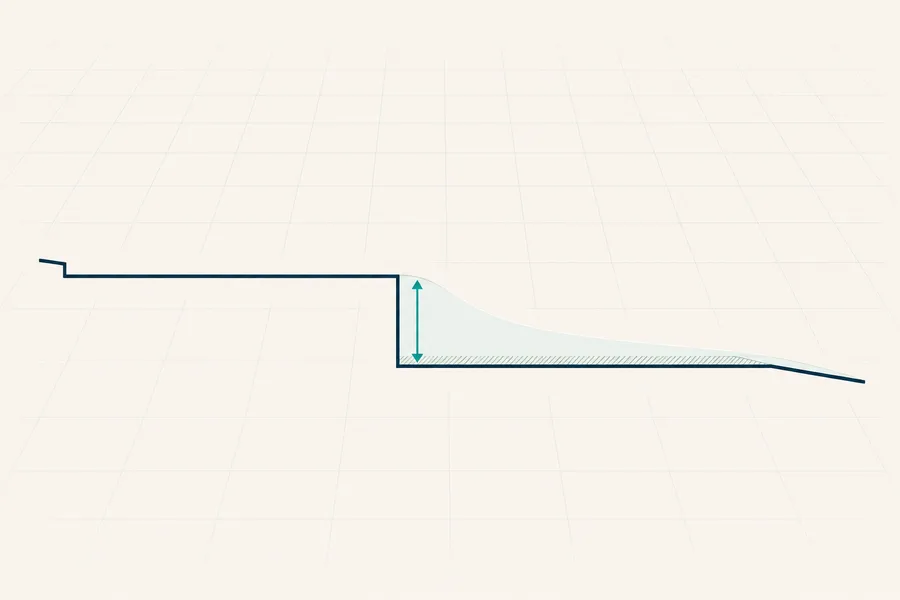
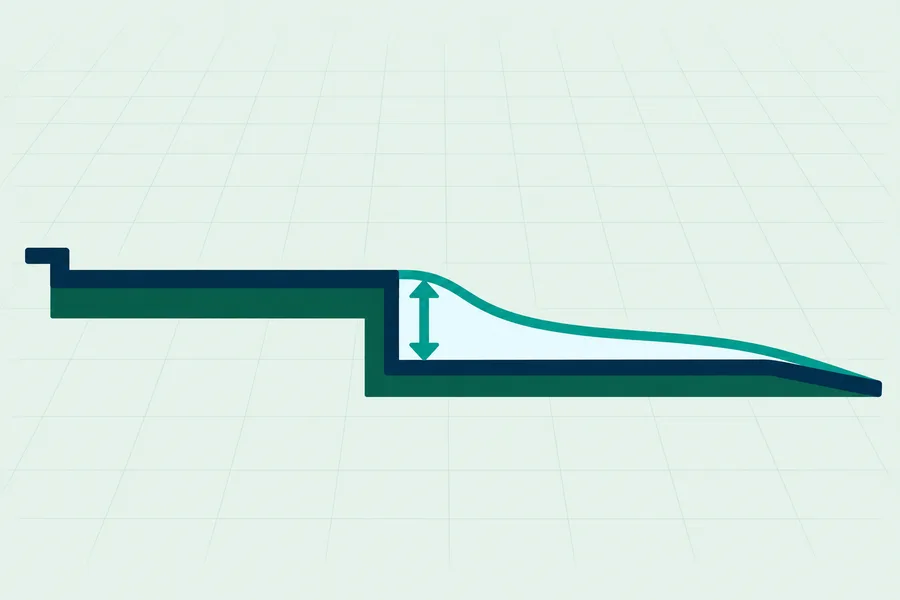
Align tool-card badges and add artwork with workspace controls

diff --git a/app/page.tsx b/app/page.tsx
@@ -20,12 +20,6 @@ const workflowHighlights = [
   { title: "Traceable", detail: "Inputs, checks and references", icon: ListChecks },
 ];
 
-const toolArtwork = {
-  snow_load: { src: "/homepage/snow-load.webp", alt: "Stepped roof cross-section with a snowdrift and a depth arrow" },
-  w_section: { src: "/homepage/w-section.webp", alt: "Stylized wide-flange steel member in the model view" },
-  "3d_model": { src: "/homepage/3d-model.webp", alt: "Close-up of beam-column connections in a structural frame" },
-} as const;
-
 const products = [
   { title: "Engineering tools", description: "Explore tools for roof snow loads, steel member checks and early-stage structural modeling.", icon: Wrench, href: "#tools", action: "Explore tools" },
   { title: "Drawing intelligence", description: "Identify grids, members and relationships in structural drawings.", icon: FileSearch, href: "#roadmap", action: "View roadmap", upcoming: true },
@@ -62,26 +56,26 @@ export default function Home() {
           </header>
           <div className="homeGrid">
             {PUBLIC_TOOLS.map((tool) => {
-              const artwork = toolArtwork[tool.key as keyof typeof toolArtwork];
+              const artwork = tool.artwork;
               const linkLabel = tool.key === "3d_model" ? "Preview 3D Model" : `Preview ${tool.name}`;
               return (
                 <article className="homeCard homeToolCard" key={tool.key}>
-                  <Image
-                    className="homeToolArtwork"
-                    src={artwork.src}
-                    alt={artwork.alt}
-                    width={900}
-                    height={600}
-                    sizes="(max-width: 680px) 90vw, 29vw"
-                    unoptimized
-                  />
+                  <div className="homeToolMedia">
+                    <Image
+                      className="homeToolArtwork"
+                      src={artwork.src}
+                      alt={artwork.alt}
+                      width={900}
+                      height={600}
+                      sizes="(max-width: 680px) 90vw, 29vw"
+                      unoptimized
+                    />
+                    <span className={`homeBadge ${tool.trialDays ? "homeTrial" : "homeBeta"}`}>
+                      {tool.trialDays ? `${tool.trialDays}-day Trial` : "Beta"}
+                    </span>
+                  </div>
                   <div className="homeToolDetails">
-                    <div className="homeCardTop">
-                      <h3>{tool.name}</h3>
-                      <span className={`homeBadge ${tool.trialDays ? "homeTrial" : "homeBeta"}`}>
-                        {tool.trialDays ? `${tool.trialDays}-day Trial` : "Beta"}
-                      </span>
-                    </div>
+                    <h3>{tool.name}</h3>
                     <p>{tool.description}</p>
                     <div className="homeSample">
                       {tool.preview ? (

diff --git a/app/homepage.css b/app/homepage.css
@@ -50,10 +50,11 @@ linkoteq-header[home-design] {
 .homepage h2 { font-size: clamp(1.875rem, 3.4vw, 2.5rem); }
 .homepage h3 { font-size: clamp(1.3rem, 2vw, 1.5rem); }
 .homepage p { max-width: 65ch; margin: 0; }
-.homepage section[id], .homeModel { scroll-margin-top: 88px; }
+.homepage section[id], .homeModel { scroll-margin-top: 112px; }
 
 .homeContainer { width: min(100% - 2 * clamp(20px, 5vw, 72px), 1280px); margin-inline: auto; }
 .homeHero, .homeSection { padding-block: clamp(56px, 7vw, 104px); }
+.homeHero { padding-top: clamp(64px, 7vw, 104px); }
 .homeHeroLayout {
   display: grid;
   grid-template-columns: minmax(0, .9fr) minmax(0, 1.1fr);
@@ -86,7 +87,7 @@ linkoteq-header[home-design] {
   padding: 13px 18px 6px;
 }
 .homeModelCard figcaption strong { display: block; color: var(--home-heading); }
-.homeModelCard figcaption div > span { display: block; color: var(--home-muted); font-size: .9375rem; }
+.homeModelCard figcaption div > span { display: block; color: var(--home-body); font-size: 1rem; }
 .homeModelCard figcaption > a { grid-column: 1 / -1; }
 .homeBadge { display: inline-flex; align-items: center; padding: 3px 10px; border-radius: 999px; font-size: .9375rem; font-weight: 700; line-height: 1.45; white-space: nowrap; }
 .homeBeta { background: var(--home-beta-bg); color: var(--home-action); }
@@ -111,9 +112,10 @@ linkoteq-header[home-design] {
 .homeCardTop { display: flex; min-height: 32px; align-items: center; justify-content: space-between; flex-wrap: wrap; gap: 8px; }
 .homeCard > a { margin-top: auto; }
 .homeToolCard { padding: 0; overflow: hidden; gap: 0; }
+.homeToolMedia { position: relative; }
+.homeToolMedia > .homeBadge { position: absolute; top: 12px; right: 12px; box-shadow: 0 1px 4px rgb(20 53 46 / 14%); }
 .homeToolArtwork { display: block; width: 100%; height: auto; aspect-ratio: 3 / 2; }
 .homeToolDetails { display: flex; flex: 1; flex-direction: column; gap: 12px; padding: clamp(18px, 2.3vw, 28px); }
-.homeToolDetails .homeCardTop { align-items: flex-start; }
 .homeToolDetails .homeTextLink { white-space: nowrap; }
 .homeSample { display: grid; align-content: center; min-height: 96px; margin-top: auto; padding: 9px 12px; border-inline-start: 3px solid var(--home-teal); background: var(--home-paper); }
 .homeSample span { display: block; color: var(--home-body); font-size: 1rem; font-weight: 600; }
@@ -138,6 +140,9 @@ linkoteq-header[home-design] {
   .homeHeroLayout, .homeSplit { grid-template-columns: minmax(0, 1fr); }
   .homeModel { width: 100%; justify-self: stretch; }
   .homeContact .homeButton { justify-self: start; }
+}
+@media (681px <= width <= 1024px) {
+  .homeToolDetails h3 { min-block-size: 2lh; }
 }
 @media (max-width: 680px) {
   .homeGrid, .homeMetrics, .homeRoadmapList { grid-template-columns: minmax(0, 1fr); }

diff --git a/app/tools/[slug]/page.tsx b/app/tools/[slug]/page.tsx
@@ -49,7 +49,15 @@ export default async function ToolPreviewPage({ params }: Props) {
           <p>{tool.description}</p>
           <ToolPreviewAnalytics key={tool.key} toolKey={tool.key} trialDays={tool.trialDays} url={tool.url} />
         </header>
-        {tool.preview ? (
+        <figure className={styles.model}>
+          <ul className={styles.workspaceControls} aria-label="Selected workspace controls">
+            {tool.workspaceControls.map((control) => <li key={control}>{control}</li>)}
+          </ul>
+          <Image src={tool.artwork.src} alt={tool.artwork.alt} width={900} height={600} unoptimized priority />
+          <figcaption>Stylized view of the tool with selected workspace controls.</figcaption>
+        </figure>
+      </div>
+      {tool.preview && (
           <section className={styles.example} aria-labelledby="example-title">
             <span className={styles.badge}>Sample calculation</span>
             <h2 id="example-title">{tool.preview.title}</h2>
@@ -65,19 +73,7 @@ export default async function ToolPreviewPage({ params }: Props) {
             <p className={styles.note}>{tool.preview.detail} For illustration only.</p>
             <a className={styles.back} href={tool.preview.source}>View the sample source</a>
           </section>
-        ) : (
-          <figure className={styles.model}>
-            <Image
-              src="/3d-model-preview.svg"
-              alt="Preview of the 3D workspace showing a building frame with grid lines"
-              width={1200}
-              height={720}
-              priority
-            />
-            <figcaption>3D workspace preview</figcaption>
-          </figure>
-        )}
-      </div>
+      )}
       {!tool.trialDays && <p className={styles.warning}>{BETA_WARNING}</p>}
     </main>
   );

diff --git a/lib/tool-discovery.ts b/lib/tool-discovery.ts
@@ -3,6 +3,8 @@ import { ENGINEERING_TOOLS, type EngineeringToolKey } from "./tool-access/catalo
 const publicDetails = {
   snow_load: {
     slug: "snow-load",
+    artwork: { src: "/homepage/snow-load.webp", alt: "Stepped roof cross-section with a snowdrift and a depth arrow" },
+    workspaceControls: ["Input", "Results", "Report"],
     description: "Explore how roof geometry and climate inputs are used in Linkoteq's roof snow load calculator.",
     preview: {
       title: "Uniform roof snow load",
@@ -21,6 +23,8 @@ const publicDetails = {
   },
   w_section: {
     slug: "w-section",
+    artwork: { src: "/homepage/w-section.webp", alt: "Close-up of a wide-flange steel section" },
+    workspaceControls: ["Input & Results", "Report"],
     description: "See how Linkoteq's steel W-section tool presents member inputs, governing checks and utilization.",
     preview: {
       title: "Steel member verification",
@@ -39,6 +43,8 @@ const publicDetails = {
   },
   "3d_model": {
     slug: "3d-model",
+    artwork: { src: "/homepage/3d-model.webp", alt: "Detail of beams and columns in a structural frame" },
+    workspaceControls: ["Grid", "Levels", "Select", "Move"],
     description: "Preview Linkoteq's 3D Structural Model workspace for early-stage structural modeling and request Beta access.",
     preview: null,
   },

diff --git a/app/tools/tools.module.css b/app/tools/tools.module.css
@@ -50,6 +50,8 @@
   background: var(--surface);
 }
 
+.example { max-width: 750px; margin: 28px auto 0; }
+
 .example h2, .card h2 {
   margin: .45em 0 .65em;
   font-size: clamp(1.35rem, 3vw, 1.85rem);
@@ -101,18 +103,40 @@
 
 .model {
   margin: 0;
-  padding: 10px;
+  padding: 0;
+  overflow: hidden;
+}
+
+.workspaceControls {
+  display: flex;
+  flex-wrap: wrap;
+  gap: 6px 10px;
+  align-items: center;
+  margin: 0;
+  padding: 11px 14px;
+  border-bottom: 1px solid var(--line);
+  background: var(--surface);
+  color: var(--ink);
+  font-size: .925rem;
+  font-weight: 700;
+  list-style: none;
+}
+
+.workspaceControls li {
+  padding: 4px 10px;
+  border-radius: 6px;
+  background: var(--sage);
 }
 
 .model img {
   display: block;
   width: 100%;
   height: auto;
-  border-radius: 12px;
+  aspect-ratio: 3 / 2;
 }
 
 .model figcaption {
-  padding: 8px 5px 3px;
+  padding: 10px 14px;
 }
 
 .warning {
